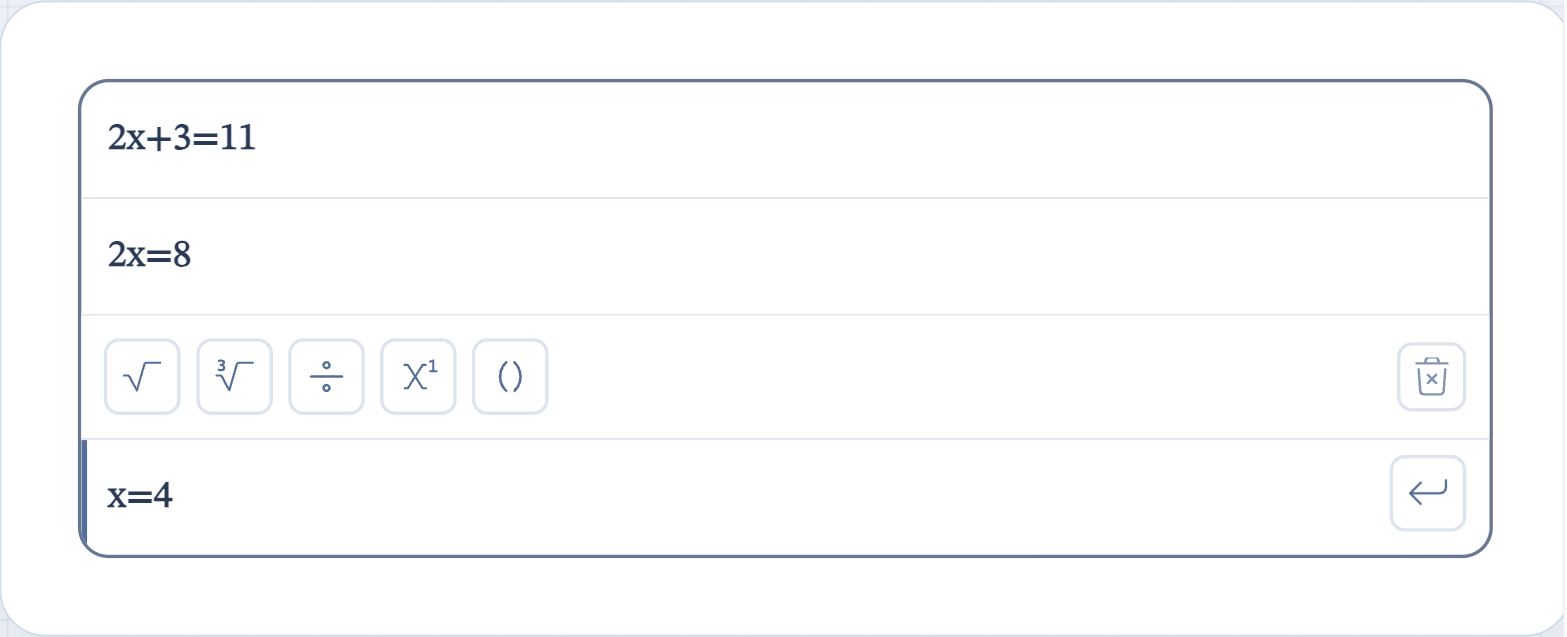
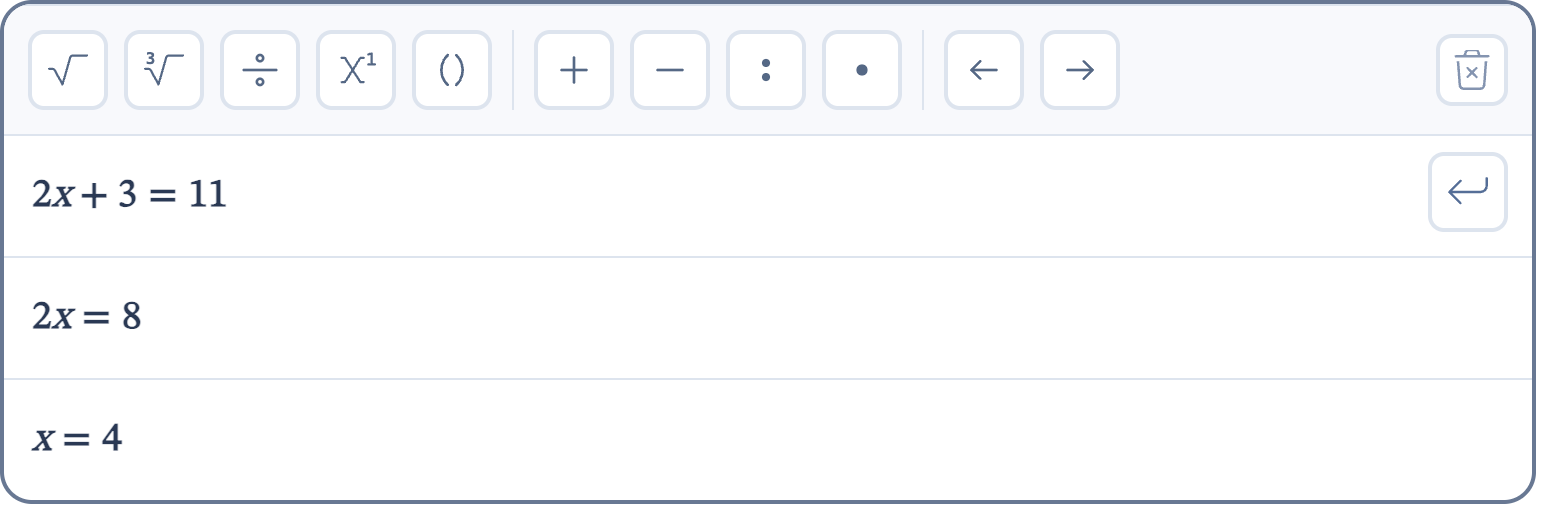
Photograph the version that actually shipped
The README's three images were taken at 0.3.x, which made the front page argue
against itself: the release is loudest about typography — operations spaced,
letters italic, digits upright, a real minus, radicals weighed by what they
cover — and the first picture on the page showed none of it. They are retaken
from the code as it stands.

The page now opens with a recording rather than a still. A still of a finished
formula says the component can display one; what a reader wants to know is what
it is like to write one, and `1/2` becoming a stacked fraction as you type it is
the answer. The sequence is `1/2 ␣ x^2 ␣ +√16 ␣ =12`, and **what it produces is
now asserted by a test** — a README that promises specific keystrokes produce a
specific value should fail the build when that stops being true, rather than
wait for somebody to read the front page carefully.

Writing that test found the claim was nearly wrong in a way the recording could
not show: the space bar reaches the editor through `beforeinput`, not keydown,
which is exactly what makes a phone's space bar and a desktop's the same key.
A first version of the test pressed it as a key, the presses did nothing, and
everything nested inside everything else.

`demo/capture.tsx` is where the images come from: one scene per page at the
field's own width, so a capture of the viewport is a capture of the component
and not a screenshot of the demo's sidebar. It is not built into the demo. It
[…]

diff --git a/demo/capture.tsx b/demo/capture.tsx
@@ -1,0 +1,49 @@
+import type { CSSProperties } from "react";
+import { createRoot } from "react-dom/client";
+import { MathInput } from "../src";
+import "./capture.css";
+
+/**
+ * The pages the README's images are taken from.
+ *
+ * A screenshot of the demo would carry the demo with it — a sidebar, a heading, a panel of
+ * copyable source — none of which is the component. This renders one scene at a time, at the
+ * field's own width and nothing else, so a capture of the viewport *is* a capture of the
+ * component. `?scene=` picks which.
+ *
+ * It is not built into `dist-demo`: it exists to be photographed, and a page that is only ever
+ * photographed should not be shipped as though somebody might visit it.
+ */
+const VIOLET = {
+  "--math-input-radius": "24px",
+  "--math-input-border-color": "#6750a4",
+  "--math-input-accent-color": "#6750a4",
+  "--math-input-control-color": "#6750a4",
+  "--math-input-control-hover-color": "#21005d",
+  "--math-input-surface": "#fefbff",
+  "--math-input-subtle-surface": "#f6f0fff2",
+  "--math-input-soft-border-color": "#e5daff",
+  "--math-input-color": "#1d192b",
+  "--math-input-field-padding": "18px",
+} as CSSProperties;
+
+const SCENES: Record<string, () => JSX.Element> = {
+  // The headline image: one field, tools showing, a formula that exercises the typography —
+  // a stacked fraction, a script, a root over a sum, and a relation.
+  field: () => <MathInput defaultValue="\frac{1}{2}x^{2}+\sqrt{16}=12" toolbar={{ autoHide: false }} />,
+  // A worked solution, which is what rows are for.
+  rows: () => <MathInput defaultValue={"2x+3=11\n2x=8\nx=4"} toolbar={{ autoHide: false }} />,
+  // The same component with nine custom properties set, to show that theming is CSS and
+  // nothing else.
+  themed: () => <MathInput defaultValue="\frac{1}{2}x^{2}+\sqrt{16}=12" toolbar={{ autoHide: false }} style={VIOLET} />,
+  // Deep nesting, for the image that shows what "structural" means: every box is a slot the
+  // caret can be moved into. No `\pm`: the reader knows the subset the writer emits and nothing
+  // else, so a command it has never heard of would be photographed as its own source.
+  nested: () => <MathInput defaultValue="x=\frac{-b+\sqrt{b^{2}-4\cdot a\cdot c}}{2\cdot a}" toolbar={{ autoHide: false }} />,
+  // Empty, for the recording: the GIF is typed into this one.
+  empty: () => <MathInput placeholder="Show your working…" toolbar={{ autoHide: false }} />,
+};
+
+const scene = new URLSearchParams(window.location.search).get("scene") ?? "field";
+const Scene = SCENES[scene] ?? SCENES.field;
+createRoot(document.getElementById("root")!).render(<Scene />);

diff --git a/src/keyboard.test.tsx b/src/keyboard.test.tsx
@@ -71,6 +71,24 @@ it("writes and edits x = (1+√2)/3 from the keyboard alone", () => {
 });
 
 /**
+ * The example the README opens with, and the sequence the recording in it types.
+ *
+ * A README is a promise, and this one shows a specific set of keystrokes producing a specific
+ * value. Nothing else in the suite would notice if that stopped being true — the acceptance test
+ * above writes a different formula — so the promise is held here rather than by whoever next
+ * reads the front page carefully.
+ */
+it("writes what the README says it writes", () => {
+  const { type, latex } = editor();
+
+  // The space bar arrives as `beforeinput`, not as a keydown — which is what makes a phone's
+  // space bar and a desktop's the same key, and why it is typed here rather than pressed.
+  type("1/2 x^2 +\u221a16 =12");
+
+  expect(latex()).toBe("\\frac{1}{2}x^{2}+\\sqrt{16}=12");
+});
+
+/**
  * What a copy takes out of the field, which is the sixth of the release's behaviour changes and
  * the one that was easiest to miss: it is a consequence of the typography rather than a decision
  * of its own, so nothing in the work that caused it mentions it.

diff --git a/demo/capture.html b/demo/capture.html
@@ -1,0 +1,12 @@
+<!doctype html>
+<html lang="en">
+  <head>
+    <meta charset="UTF-8" />
+    <meta name="viewport" content="width=device-width, initial-scale=1.0" />
+    <title>MathInput — capture</title>
+  </head>
+  <body>
+    <div id="root"></div>
+    <script type="module" src="./capture.tsx"></script>
+  </body>
+</html>

diff --git a/demo/capture.css b/demo/capture.css
@@ -1,0 +1,4 @@
+/* Nothing but the component: no page, no chrome, no margin to crop out afterwards. */
+html, body { margin: 0; padding: 0; background: #ffffff; }
+body { font-family: ui-sans-serif, system-ui, sans-serif; }
+#root { padding: 16px; }

diff --git a/README.md b/README.md
@@ -6,7 +6,11 @@
 
 A React field for writing mathematics the way it is written on paper — one formula per line, fractions stacked, roots drawn over what they cover — that hands your app KaTeX-compatible LaTeX as the value. No runtime dependencies beyond React: no Tailwind, no MathJax, no editor framework. It does not evaluate or check what is written; it is an input, not a calculator.
 
-![The field, with its formula tools, showing ½x² + √16 = 12](https://raw.githubusercontent.com/belichuk/MathInput/main/docs/images/field.png)
+![Typing ½x² + √16 = 12: the fraction stacks as it is typed, the power raises, and the root draws itself over what it covers](https://raw.githubusercontent.com/belichuk/MathInput/main/docs/images/typing.gif)
+
+Every key in that recording is an ordinary one: `/` opened the fraction, `^` the power, `√` the root, and `Space` stepped out of each. What `onChange` handed back is `\frac{1}{2}x^{2}+\sqrt{16}=12` — ready to store, mark, or render with KaTeX.
+
+**Contents** · [Install](#install) · [Quick start](#quick-start) · [Props](#props) · [What can be typed](#what-can-be-typed) · [Styling](#styling) · [The value](#the-value) · [Recipes](#recipes) · [Accessibility](#accessibility) · [Migrating to 0.5.0](MIGRATING-0.5.0.md)
 
 ## Install
 
@@ -39,7 +43,7 @@ export function AnswerField() {
 }
 ```
 
-`value` is a plain string — `\frac{1}{2}x^{2}+\sqrt{16}=12` for the screenshot above — ready to store, mark, or render with KaTeX.
+`value` is a plain string of LaTeX, one line per row. There is no editor instance to hold, no document object to convert, and nothing to serialise: what you store is what `onChange` gave you, and what you pass back to `value` is what the field draws.
 
 ## Props
 
@@ -58,6 +62,8 @@ Everything is optional; `<MathInput />` on its own is a working uncontrolled fie
 | `aria-label` | `string` | `"Math editor"` | The editor's accessible name; each row is named from it too. |
 
 ### The toolbar
+
+![The field with its tools: square root, cube root, fraction, power and brackets, then the four operators, then the two arrows](https://raw.githubusercontent.com/belichuk/MathInput/main/docs/images/field.png)
 
 One prop describes the whole strip. Every key is optional and every default is on:
 
@@ -118,6 +124,14 @@ They then sit on the row the caret last used, on the first row until the field i
 The formula still renders and can be selected and copied; only editing stops.
 
 ## What can be typed
+
+**A worked example**, and it is the one in the recording at the top. Type
+
+```
+1/2  ␣  x^2  ␣  +√16  ␣  =12
+```
+
+and the field holds `\frac{1}{2}x^{2}+\sqrt{16}=12`. Each `Space` steps out of the slot the key before it opened — out of a denominator, out of an exponent, out from under a radical — so a whole expression is written without once reaching for the mouse or an arrow key.
 
 The toolbar comes in three groups, divided: the formulas that have to be built — a square root, a cube root, a fraction, a power, brackets — then the four operators `+` `−` `:` `⋅`, then the two arrows that move the caret. Every button does what the matching key does, so a field can be filled in on a tablet with no keyboard at all. Each group is on by default and switched off on its own through `toolbar`. Subscripts have no button — `_` writes them. The rest is the keyboard:
 
@@ -380,13 +394,15 @@ The power tool does the same as `^` when there is a term behind the caret, and o
 
 A formula opened in front of written work wraps that work instead of pushing it aside. Roots and fractions behave like the brackets above: the slot the caret was going to land in takes the term in front of it, a whole formula included, so `(` typed in front of `\frac{1}{2}` brackets the fraction rather than sitting beside it. Only that one term is taken, leaving the rest of the row alone: `|10+20` with the root button gives `\sqrt{10}+20`. `/` can take a term on each side, `10|5` becoming `\frac{10}{5}`. Where nothing is written in front of the caret the formula opens empty.
 
-The editor treats a formula as a navigable object rather than plain text:
+![A quadratic formula in the field: a fraction whose numerator holds a root, whose radicand holds a power](https://raw.githubusercontent.com/belichuk/MathInput/main/docs/images/nested.png)
+
+Every box in that formula is a slot the caret can be put in — by clicking it, by `Tab`, or by the arrow keys. The editor treats a formula as a navigable object rather than plain text:
 
 - `→` and `←` step through every slot of a formula in reading order — a power's base before its exponent, a numerator before its denominator, a root's index before its radicand — and then out to the position after (or before) the whole formula.
 - `Space` steps *past* what is in front of the caret rather than into it: first the rest of what is being written, then over a whole formula standing next to it, then out of the slot itself — one thing per press, the way `Backspace` removes one thing per press. A slot left this way hands the caret to the *end* of the next one, since what is written there is written: `\frac{1|}{2}` becomes `\frac{1}{2|}`, and the next press leaves the fraction. So `1/2` typed straight through, then `Space`, carries on after the fraction rather than inside it, and a root or a power is left the same way. Nothing is written by the key, at the end of the row it does nothing, and a space in pasted text is still dropped.
 - Clicking inside any slot places the caret in that part of the formula.
 - Clicking past a formula's edge, or pressing `End`, continues after it.
-- Typing `=` comes out to the row before writing itself, so it always separates whole formulas: pressed deep inside `\frac{1}{\frac{1}{2}}` it lands after the outer fraction, never inside a slot, and `10^=2` cannot be typed at all.
+- Typing `=` comes out of whatever cannot hold a relation and stops at the first thing that can. A numerator, a radicand and an exponent cannot, so `10^=2` cannot be typed at all and `=` pressed deep inside `\frac{1}{\frac{1}{2}}` lands after the outer fraction. Brackets *can*, because `\left(x=1\right)` is a sentence: `=` typed inside them stays where it was typed. Which constructs can hold one is declared per construct rather than decided key by key.
 - `Backspace` removes the formula immediately behind the caret as one object, whatever it contains. Inside a slot it deletes normally; at the start of a slot it steps out — into the previous slot, or to just before the formula — leaving the content alone. Only when every slot of a formula is empty does the next `Backspace` remove that formula. `Delete` mirrors all of this forwards. Never more than one thing goes per keypress.
 - A sign typed after a sign replaces it, rather than being written beside it: `1+` then `−` is `1−`. Nobody means `1+−`, and the second press is the correction, so it is treated as one — which is the difference between a student fixing a slip with one key and fixing it with a backspace they have to think about. It applies to `+`, `−`, `:` and `⋅`, whether they come from keys or from the toolbar, and to nothing else: a sign following a digit, a bracket or a whole formula is written as written.
 - A selection spanning two slots deletes the covered part of each and keeps the formula: half a fraction is not a thing.

diff --git a/CHANGELOG.md b/CHANGELOG.md
@@ -71,6 +71,13 @@ listening to one should be possible at all.
 - **Moving the caret into a slot is announced.** Entering a denominator is a fact a sighted user gets from the drawing and nobody else was told: a polite live region says *"in the denominator"* when the caret arrives somewhere new, and says nothing while it stays there. It reads the selection in the model — nothing is measured on the page.
 - `√` and `∛` open a square root and a cube root the way `(` opens brackets. They are not on most physical keyboards, but they are on every soft keyboard's symbol page, and they survive dictation, autocorrect and paste — and until now no key opened a root at all.
 
+### Documentation
+
+- **The README's pictures were of the wrong version.** They were taken at 0.3.x, so the one thing this release is loudest about — operations spaced, letters italic, digits upright, a real minus, radicals weighed by what they cover — was contradicted by the first image on the page. They are retaken, and the page now opens with a recording of a formula being typed rather than a still of one already written: `1/2`, space, `x^2`, space, `+√16`, space, `=12`. What that sequence produces is asserted by a test, so the front page's promise fails the build if it stops being true.
+- A worked example at the head of *What can be typed*, a picture of a quadratic formula where the editing rules are explained — every box in it is a slot the caret can be put in — and a contents line at the top.
+- One paragraph in *Editing formulas in detail* still described `=` escaping all the way to the row, which is the behaviour this release replaced. It now says what the editor does.
+- `demo/capture.tsx` is where those images come from: one scene per page, at the field's own width, so a capture of the viewport is a capture of the component and no image is a screenshot of the demo's furniture. It is not built into the demo — a page that exists to be photographed should not be shipped as though somebody might visit it.
+
 ### Known limitations
 
 - **A row cannot be split or merged.** `Enter` adds a row after the one you are in rather than splitting it at the caret, and `Backspace` at the start of a row does not join it to the row above. This is unchanged from earlier versions and is not a regression of the new ↑ and ↓ — it is the next piece of work on rows, and it is 0.6.0's. One consequence to know when using the new `toolbar={false}`: the remove-row control lives in the toolbar, so with no toolbar and no merge there is no way to remove a row. Pair `toolbar={false}` with a single-row field until that changes.
@@ -202,6 +209,13 @@ The editor is rebuilt on a document model. Each row is now a typed formula tree 
 - A selection spanning two slots really deletes, trimming each slot and keeping the formula — half a fraction is not a thing.
 - A row no longer changes height when its formula outgrows it. A native scrollbar takes its own height out of the row, which made a row grow by 11px and shrink again on the next backspace.
 - The placeholder no longer pushes the caret's text run onto a second line, and clicking past a formula's edge continues after it rather than landing inside its last slot.
+
+### Documentation
+
+- **The README's pictures were of the wrong version.** They were taken at 0.3.x, so the one thing this release is loudest about — operations spaced, letters italic, digits upright, a real minus, radicals weighed by what they cover — was contradicted by the first image on the page. They are retaken, and the page now opens with a recording of a formula being typed rather than a still of one already written: `1/2`, space, `x^2`, space, `+√16`, space, `=12`. What that sequence produces is asserted by a test, so the front page's promise fails the build if it stops being true.
+- A worked example at the head of *What can be typed*, a picture of a quadratic formula where the editing rules are explained — every box in it is a slot the caret can be put in — and a contents line at the top.
+- One paragraph in *Editing formulas in detail* still described `=` escaping all the way to the row, which is the behaviour this release replaced. It now says what the editor does.
+- `demo/capture.tsx` is where those images come from: one scene per page, at the field's own width, so a capture of the viewport is a capture of the component and no image is a screenshot of the demo's furniture. It is not built into the demo — a page that exists to be photographed should not be shipped as though somebody might visit it.
 
 ### Known limitations
 
